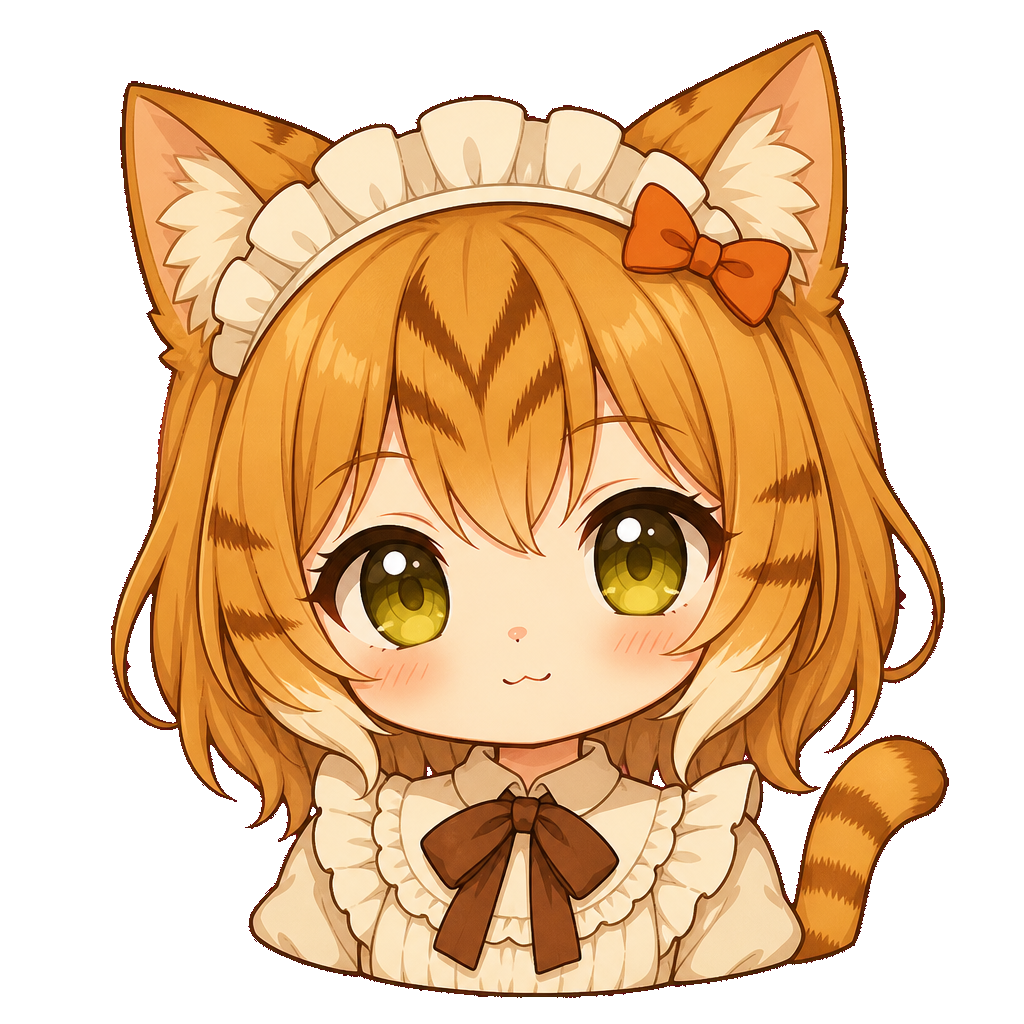
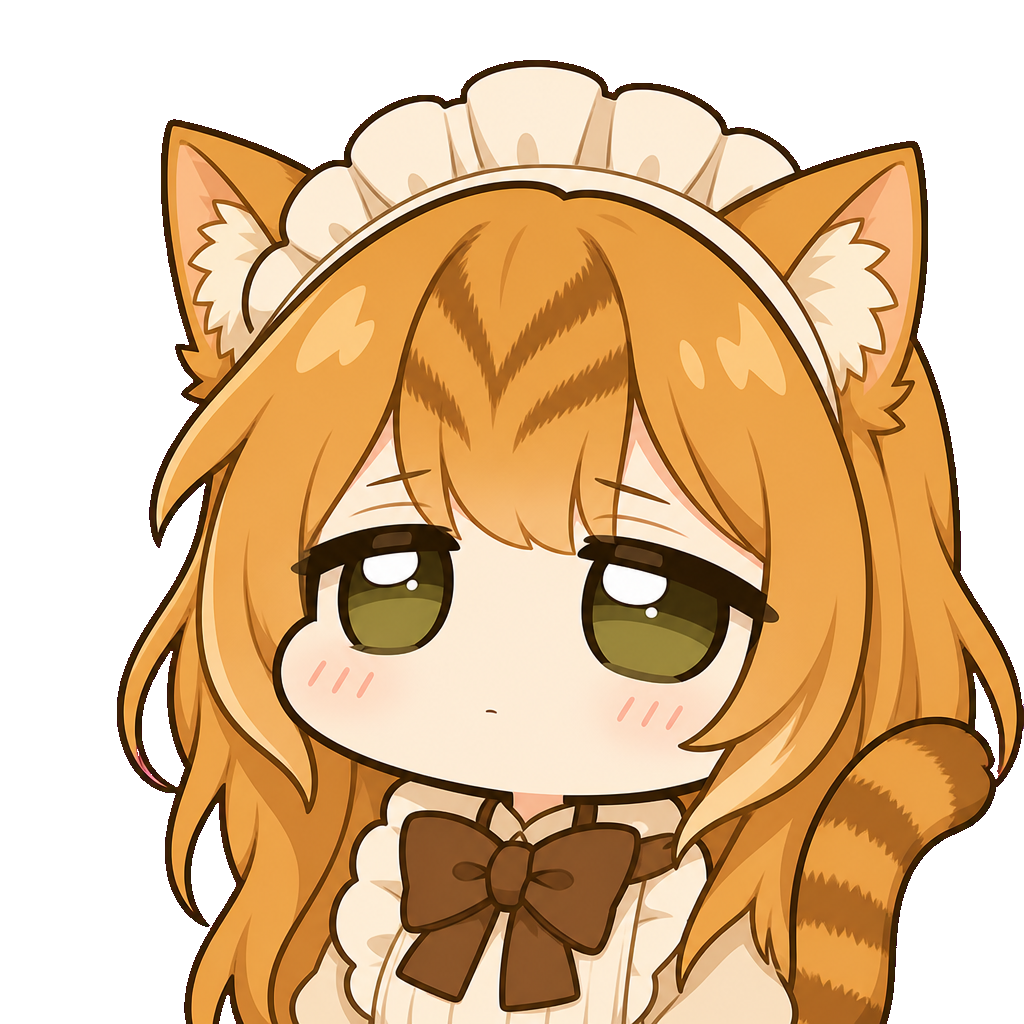
Default expressions to whale-style lazy faces and pack a zip for editor import.
Keep the previous moe set in assets/expr-moe. Plugin assets load through getResourceUrl so the zip installs into the editor plugins folder, not the notes vault.

diff --git a/web/widget.js b/web/widget.js
@@ -1,5 +1,5 @@
 const STORAGE_KEY = "chestnut-pet";
-const ASSET_VER = "20260827d";
+const ASSET_VER = "20260827e";
 const BUBBLE_STYLE = {
   A: "chestnut-pet-label",
   B: "chestnut-pet-amount",
@@ -43,6 +43,12 @@ const EXPR = {
 
 const CUTE_POOL = ["ok", "sad", "quiet", "cheer", "fatfish", "mock", "what", "scared", "greet", "thumbsup"];
 
+export const PET_ASSET_FILES = [
+  "Ya1.mp3",
+  "Ya2.mp3",
+  ...Object.values(EXPR).map((file) => `expr/${file}`),
+];
+
 const DEFAULT_LINES = [
   "板栗来啦，今天也要摸摸头。",
   "罐头呢？本猫娘饿了。",
@@ -71,6 +77,7 @@ function singleCenter(style, text, color, wrap) {
 
 export function mountChestnutPet(options = {}) {
   const assetBase = (options.assetBase || "../assets").replace(/\/$/, "");
+  const assetMap = options.assetMap && typeof options.assetMap === "object" ? options.assetMap : null;
   const host = options.host || document.body;
   const saved = loadState();
   let currentStats = options.stats || null;
@@ -209,8 +216,14 @@ export function mountChestnutPet(options = {}) {
     menu.style.top = `${Math.round(top)}px`;
   }
 
+  function assetPath(rel) {
+    const key = String(rel).split("?")[0];
+    if (assetMap && assetMap[key]) return assetMap[key];
+    return `${assetBase}/${key}`;
+  }
+
   function exprUrl(name) {
-    return `${assetBase}/expr/${EXPR[name] || EXPR.idle}?v=${ASSET_VER}`;
+    return assetPath(`expr/${EXPR[name] || EXPR.idle}`);
   }
 
   function preload(name) {
@@ -506,8 +519,8 @@ export function mountChestnutPet(options = {}) {
 
   function setupAudio() {
     try {
-      pressAudio = new Audio(`${assetBase}/Ya1.mp3?v=${ASSET_VER}`);
-      releaseAudio = new Audio(`${assetBase}/Ya2.mp3?v=${ASSET_VER}`);
+      pressAudio = new Audio(assetPath("Ya1.mp3"));
+      releaseAudio = new Audio(assetPath("Ya2.mp3"));
       pressAudio.preload = "auto";
       releaseAudio.preload = "auto";
     } catch {

diff --git a/plugin/main.js b/plugin/main.js
@@ -3,21 +3,26 @@ let pet;
 let unsubStats = () => {};
 let cssLink;
 
-function publicBase() {
-  return new URL("chestnut-cat/", document.baseURI).href.replace(/\/$/, "");
-}
-
 export async function onLoad(api) {
   cssLink = document.createElement("link");
   cssLink.rel = "stylesheet";
-  cssLink.href = publicBase() + "/widget.css?v=20260827d";
+  cssLink.href = await api.getResourceUrl("widget.css");
   cssLink.dataset.chestnutCat = "css";
   document.head.appendChild(cssLink);
 
-  const mod = await import(/* @vite-ignore */ publicBase() + "/widget.js?v=20260827d");
+  const widgetHref = await api.getResourceUrl("widget.js");
+  const mod = await import(/* @vite-ignore */ widgetHref);
+  const assetMap = { "widget.js": widgetHref, "widget.css": cssLink.href };
+  const files = mod.PET_ASSET_FILES || [];
+  await Promise.all(
+    files.map(async (rel) => {
+      assetMap[rel] = await api.getResourceUrl(rel);
+    }),
+  );
+
   pet = mod.mountChestnutPet({
     host: document.body,
-    assetBase: publicBase(),
+    assetMap,
     stats: api.stats.getSnapshot(),
   });
   unsubStats = api.events.on("writing-stats", (data) => {

diff --git a/scripts/pack-plugin.py b/scripts/pack-plugin.py
@@ -1,0 +1,43 @@
+"""Build the Chestnut Cat plugin zip for Chestnut Editor import."""
+from __future__ import annotations
+
+import json
+import zipfile
+from pathlib import Path
+
+ROOT = Path(__file__).resolve().parents[1]
+MANIFEST_PATH = ROOT / "plugin" / "manifest.json"
+
+
+def main() -> None:
+    manifest = json.loads(MANIFEST_PATH.read_text(encoding="utf-8"))
+    plugin_id = manifest["id"]
+    version = manifest["version"]
+    out_dir = ROOT / "dist"
+    out_dir.mkdir(exist_ok=True)
+    out_path = out_dir / f"{plugin_id}-{version}.zip"
+
+    files = [
+        (ROOT / "plugin" / "manifest.json", "manifest.json"),
+        (ROOT / "plugin" / "main.js", "main.js"),
+        (ROOT / "web" / "widget.js", "widget.js"),
+        (ROOT / "web" / "widget.css", "widget.css"),
+        (ROOT / "assets" / "Ya1.mp3", "Ya1.mp3"),
+        (ROOT / "assets" / "Ya2.mp3", "Ya2.mp3"),
+    ]
+    expr = ROOT / "assets" / "expr"
+    files.extend((png, f"expr/{png.name}") for png in sorted(expr.glob("*.png")))
+
+    missing = [str(src) for src, _ in files if not src.is_file()]
+    if missing:
+        raise SystemExit("Missing files:\n" + "\n".join(missing))
+
+    with zipfile.ZipFile(out_path, "w", compression=zipfile.ZIP_DEFLATED) as zf:
+        for src, dest in files:
+            zf.write(src, dest)
+
+    print(f"Wrote {out_path} ({out_path.stat().st_size} bytes, {len(files)} files)")
+
+
+if __name__ == "__main__":
+    main()

diff --git a/README.md b/README.md
@@ -2,6 +2,16 @@
 
 右下角的板栗猫娘桌宠。形象来自家猫板栗的照片，交互参考 [dsh-whale-widget-plus](https://github.com/louke6572/dsh-whale-widget-plus)（MIT）：点、连点、悬停、失落、揉头、台词和菜单。
 
+## 插件包
+
+打一个给 Chestnut Editor 导入的 zip（资源走 `getResourceUrl`，导入后解压到编辑器安装目录的 `plugins/`，不是笔记库）：
+
+```bash
+python scripts/pack-plugin.py
+```
+
+生成 `dist/chestnut-cat-0.1.0.zip`。在编辑器设置 → 插件里拖入该 zip。
+
 ## 预览
 
 不要直接双击 HTML。在仓库根目录：
@@ -22,7 +32,9 @@ python -m http.server 4173
 
 ## 表情贴图
 
-`assets/expr/` 对齐鲸鱼挂件第一版：
+默认贴图在 `assets/expr/`（小鲸鱼脸部描改：半垂眼、慵懒）。上一版更精致的猫娘在 `assets/expr-moe/`，保留不删。
+
+表情对齐鲸鱼挂件第一版：
 
 idle、angry、shy、disappointed、exhausted、stroking、close_eyes、half_closed_eyes、ok、sad、quiet、cheer、fatfish、mock、what、scared、greet、thumbsup
 
